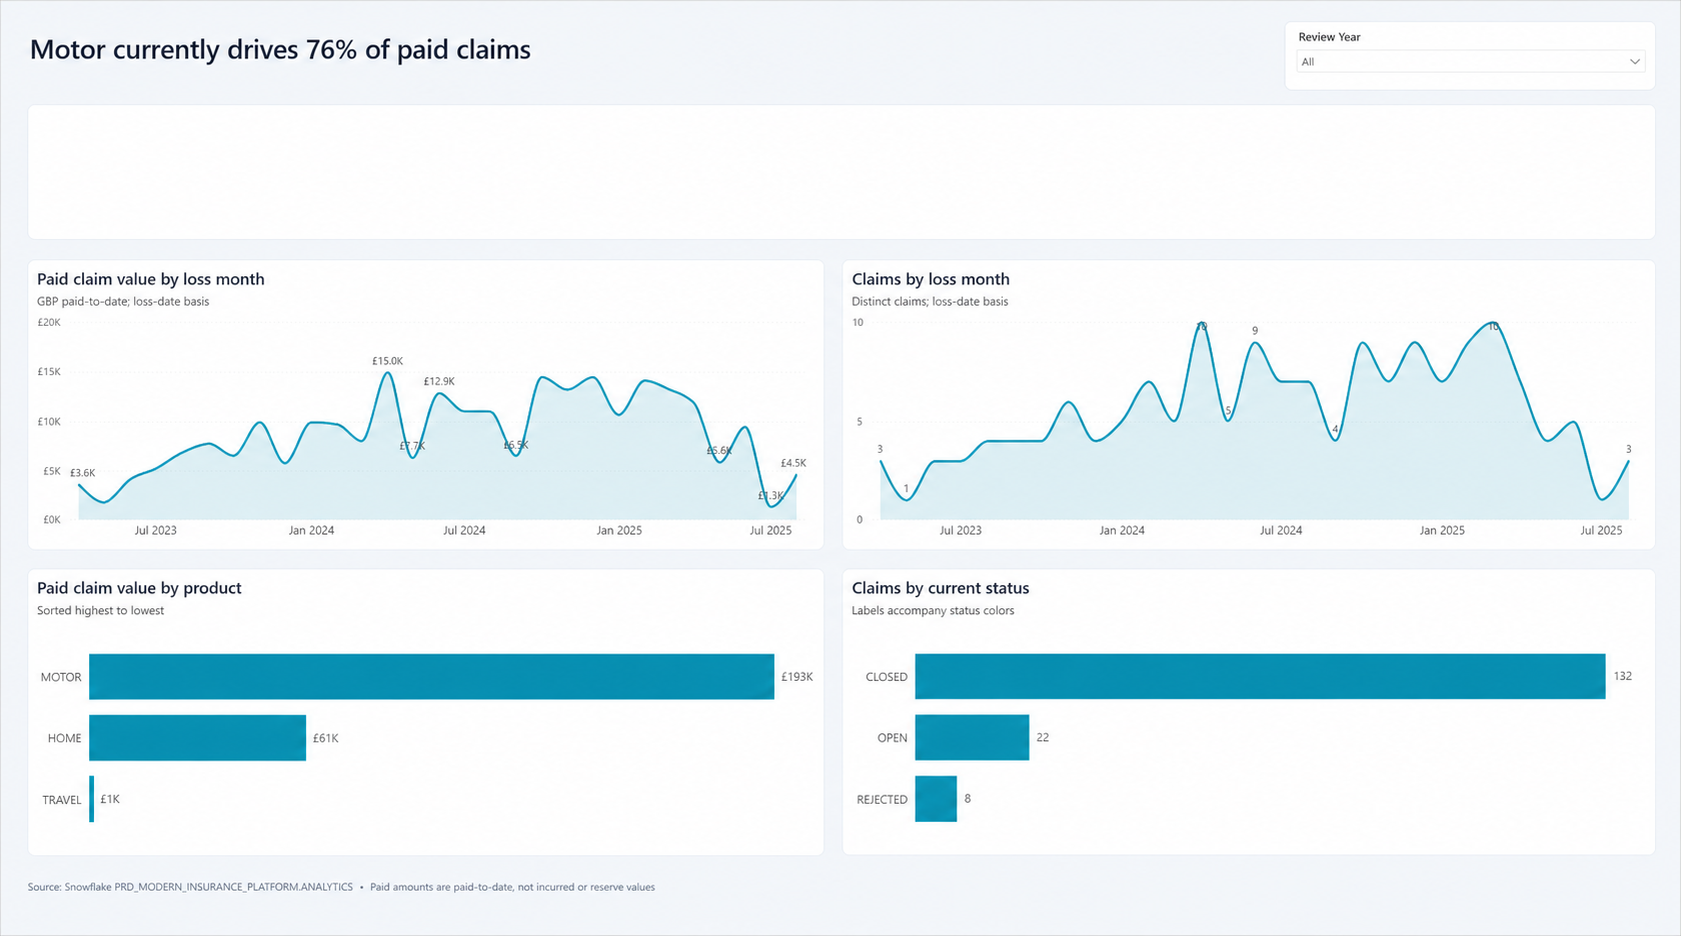
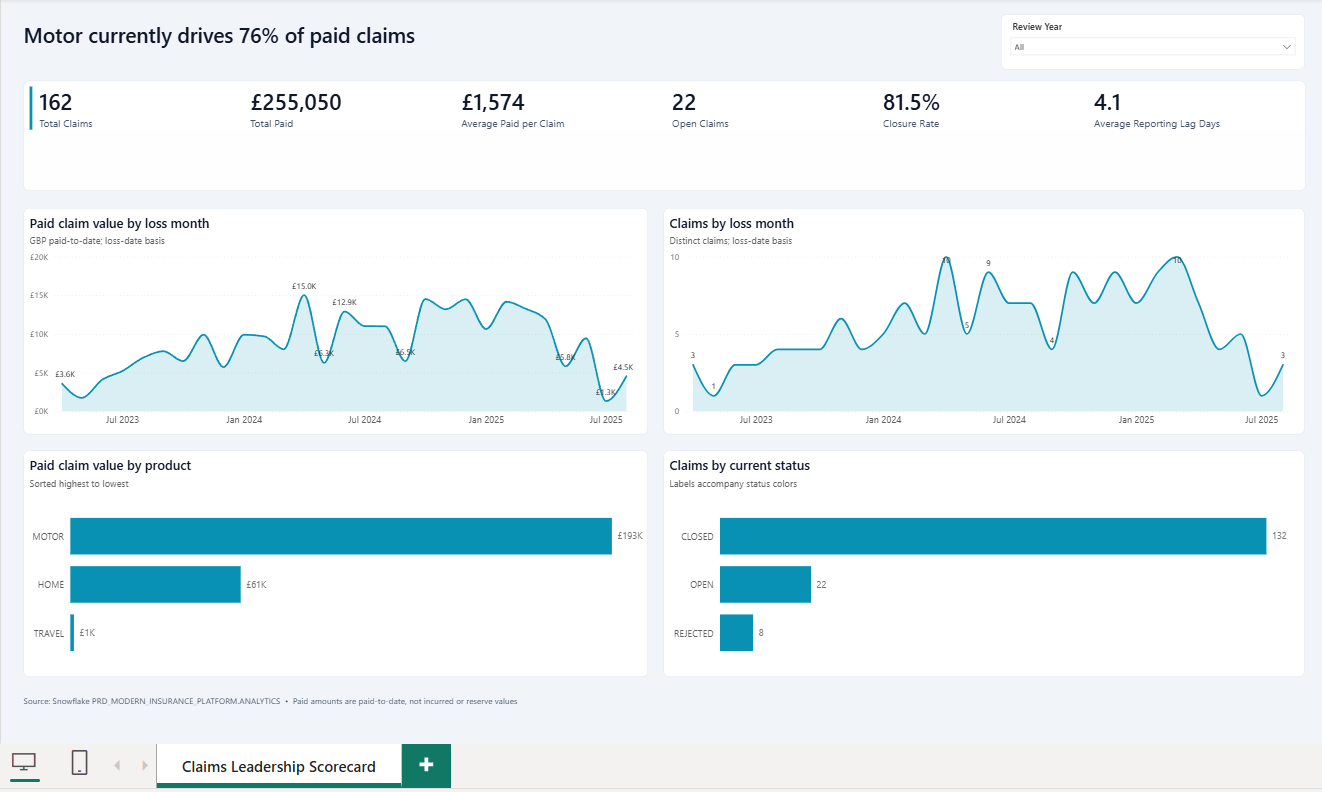
Semantic views as dbt macros

diff --git a/setup/README.md b/setup/README.md
@@ -28,21 +28,51 @@ This PRD seed creates:
 
 ## Snowflake Intelligence
 
-After the PRD data has been loaded and dbt has built the PRD marts, run:
+The Snowflake semantic-view definitions are maintained in
+`dbt/macros/create_semantic_views.sql`. They resolve their source relations from
+the selected dbt target, so the same operations can be used in DEV and PRD.
+
+After the data has been loaded and dbt has built the marts, run from the
+repository root:
+
+1. Create or update all three semantic views in DEV
+   `dbt run-operation create_semantic_views --project-dir dbt --target dev`
+
+2. Check the DEV views in Snowsight, Cortex Analyst, or Snowflake Intelligence
+
+3. Create or update all three semantic views in PRD
+   `dbt run-operation create_semantic_views --project-dir dbt --target prd`
+
+The individual operations are also available when only one view should change:
+
+- `create_claims_semantic_view`
+- `create_insurance_performance_semantic_view`
+- `create_customer_service_lookup_semantic_view`
+
+The operations create these views in the selected target's analytics schema:
+
+- `CLAIMS_SEMANTIC_VIEW`
+- `INSURANCE_PERFORMANCE`
+- `CUSTOMER_SERVICE_LOOKUP`
+
+For the existing PRD Snowflake Intelligence Agent setup:
 
 1. Build PRD marts
    from the repository root, run: `cd dbt && dbt run --target prd --full-refresh`
 
-2. Create the semantic view and Snowflake Intelligence Agent
-   run: `05_snowflake_intelligence.sql`
+2. Create the PRD semantic views with the dbt operation above
 
-3. Open Snowflake Intelligence, switch to `ROLE_ANALYST`, and select:
+3. Run the grants and Snowflake Intelligence Agent portions of
+   `05_snowflake_intelligence.sql`. The semantic-view DDL retained in that file
+   is legacy bootstrap SQL; the dbt macros are the canonical definitions.
+
+4. Open Snowflake Intelligence, switch to `ROLE_ANALYST`, and select:
    `Insurance Performance`
 
 The script creates this Agent object:
 `SNOWFLAKE_INTELLIGENCE.AGENTS.INSURANCE_PERFORMANCE_AGENT`
 
-The Agent is backed by two semantic views:
+The existing Agent is backed by two semantic views:
 
 - `PRD_MODERN_INSURANCE_PLATFORM.ANALYTICS.INSURANCE_PERFORMANCE`
 - `PRD_MODERN_INSURANCE_PLATFORM.ANALYTICS.CUSTOMER_SERVICE_LOOKUP`
@@ -50,6 +80,10 @@ The Agent is backed by two semantic views:
 `INSURANCE_PERFORMANCE` handles aggregate performance analysis.
 `CUSTOMER_SERVICE_LOOKUP` handles bounded customer service searches over the
 same demo customer, policy, and claim marts used by the Streamlit app.
+
+`CLAIMS_SEMANTIC_VIEW` is the claims-focused model aligned with
+`dbt/models/marts/claims_sematic.yml`; add it to an Agent as another Cortex
+Analyst tool when you want the claims scorecard measures exposed directly.
 
 Suggested first questions:
 
